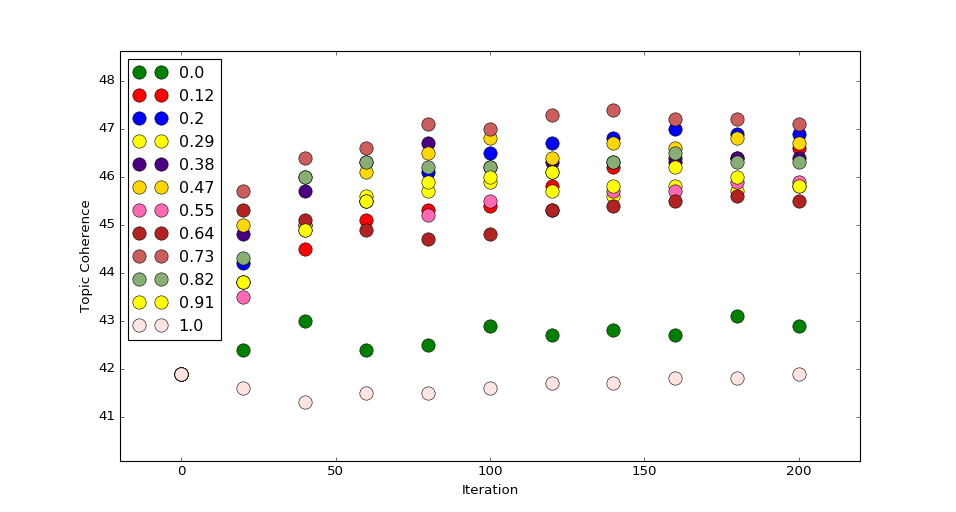
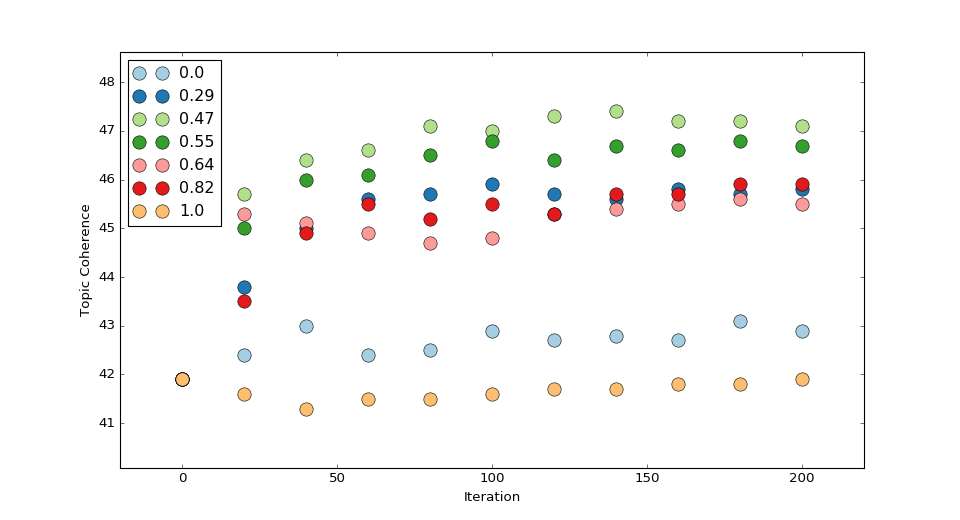
Thesis

diff --git a/thesis/thesis.tex b/thesis/thesis.tex
@@ -1563,7 +1563,7 @@ We also used this to determine good values for the LDA parameters $\alpha$ and $
 We ran a grid search using $[0.002, 0.005, 0.01, 0.02, 0.05]$ as possible values for $\alpha$ and $[0.002, 0.005, 0.01, 0.02, 0.05, 0.1]$ as possible values for $\beta$.
 Interestingly, there is no clear trend visible.
 The best topic coherence results were achieved with $(\alpha=0.01,\beta=0.02)$, $(\alpha=0.005,\beta=0.005)$, and $(\alpha=0.02,\beta=0.1)$.
-However, all results were in a very close range, with a standard deviation of all results of $0.006$, indicating no relationship between $\alpha$, $\beta$ and the topic coherence.
+However, all results were in a very close range, with a standard deviation of all results of $0.6$, indicating no relationship between $\alpha$, $\beta$ and the topic coherence.
 This impression is further strengthened by Figure~\ref{fig:standard_lda_alpha_beta}, where we plot the average TC coherence for a fixed $\alpha$ respectively $\beta$.
 Again, no trend is recognizable.
 Because of this, we base our following experiments on the values $\alpha = \beta = 1/K = 0.02$.
@@ -1571,7 +1571,7 @@ The baseline topic coherence score for this is $TC = 41.9$.
 We show the development of topic coherence through the Gibbs sampling iterations in Figure~\ref{fig:lda_20news_tc_development}.
 
 The results are similar for the \textsc{Nips} corpus.
-We again choose $\alpha = \beta = 0.02)$ and start with a topic coherence baseline of $TC = 40.6$.
+We again choose $\alpha = \beta = 0.02$ and start with a topic coherence baseline of $TC = 40.6$.
 
 \begin{figure}
        \centering
@@ -1605,22 +1605,23 @@ The $\lambda_{act}$ values are slightly higher than the original $\lambda$ value
        \caption{Topic coherence development for Gaussian WELDA and \textsc{20News} as embedding corpus. Topic coherence was evaluated every 20 iterations.}
        \label{fig:welda_gaussian_lambda_20news}
 \end{figure}
-% TODO: Mention plots are scaled by 100.
 
+Due to the random component in LDA, we ran all experiments five times and averaged the results in the following experiments.
 We start with the analysis of with the topic models using the embeddings trained on the \textsc{20News} corpus.
 The results are plotted in Figure~\ref{fig:welda_gaussian_lambda_20news}.
+All runs start with the same value $TC = 41.9$ at iteration 0, because the models are initialized with the topic assignments from LDA.
 There are several interesting observations in the plot.
-First, with $\lambda = 0.0$ the topic coherence does not change beyond random fluctuations.
-This is expected, as WELDA with no replacement corresponds to standard LDA, where we observed the same topic coherence values around $42.5$.
-However, the same bad topic coherence values can be observered when $\lambda = 1.0$, i.e. when all words are replaced.
+First, the topic coherence does not change beyond random fluctuations with $\lambda = 0.0$.
+This is expected, as WELDA with no replacement corresponds to standard LDA, where we observed the same topic coherence values.
+However, the same bad topic coherence values can be observed when $\lambda = 1.0$, i.e. when all words are replaced.
 This indicates, that just relying on the word embeddings to achieve good topics and completely disregarding the standard LDA structure, does not work.
 Intuitively, when all words are resampled, the means of the topics roughly stay the same after each iteration, as no knowledge from the text is incorporated into the model anymore.
 This results in roughly constant values for $\lambda = 1.0$.
+Also see Section~\ref{sec:raw_tm_we}, where we experiment with a topic model solely based on word embeddings.
 
-All the other $\lambda$ parameters from $0.1$ to $0.9$ follow a clearly rising trend.
+All the other $\lambda$ parameters follow a clearly rising trend.
 Around iteration $140$, the values tend to reach their optimum and stay there except some random fluctuations.
-There is no clear correlation between $\lambda$ and the topic coherence recognizable.
-The best values are reached with $\lambda = 0.73$ with a topic coherence of $0.474$, however the second best results are reached by a comparatively low $\lambda = 0.2$ and topic coherence of $0.470$.
+The best topic coherence value is reached with $\lambda_{act} = 0.47$ with a topic coherence of $47.4$.
 It seems and the Gibbs sampling gets stuck in a local optimum.
 Thus, as in standard topic models, it seems best to rerun the model several times and pick the best.
 This is an improvement of $0.051$ over the baseline value.
@@ -1717,6 +1718,7 @@ We will focus on two tasks: topic coherence and document classification.
 We will now evaluate topic coherence as described in Section~\ref{sec:topic_coherence} on all models.
 
 \subsection{Raw word-embedding topic model}
+\label{sec:raw_tm_we}
 As a baseline, we start with a topic model solely based on the word-similarity in the embedding space.
 This way, we see whether using the most similar words for a given word already yields good topics, or whether standard LDA is still important for creating good topics.
 
@@ -1988,8 +1990,10 @@ fewer: dimensions: slower runtime, loosing information; more dimensions, usually
 \clearpage
 % \printbibliography
 
-% \begin{appendices}
-% \end{appendices}
+\begin{appendices}
+\chapter{Plots}
+
+\end{appendices}
 
 %\include{chapters/eigenstaendigkeit}
 \end{document}
